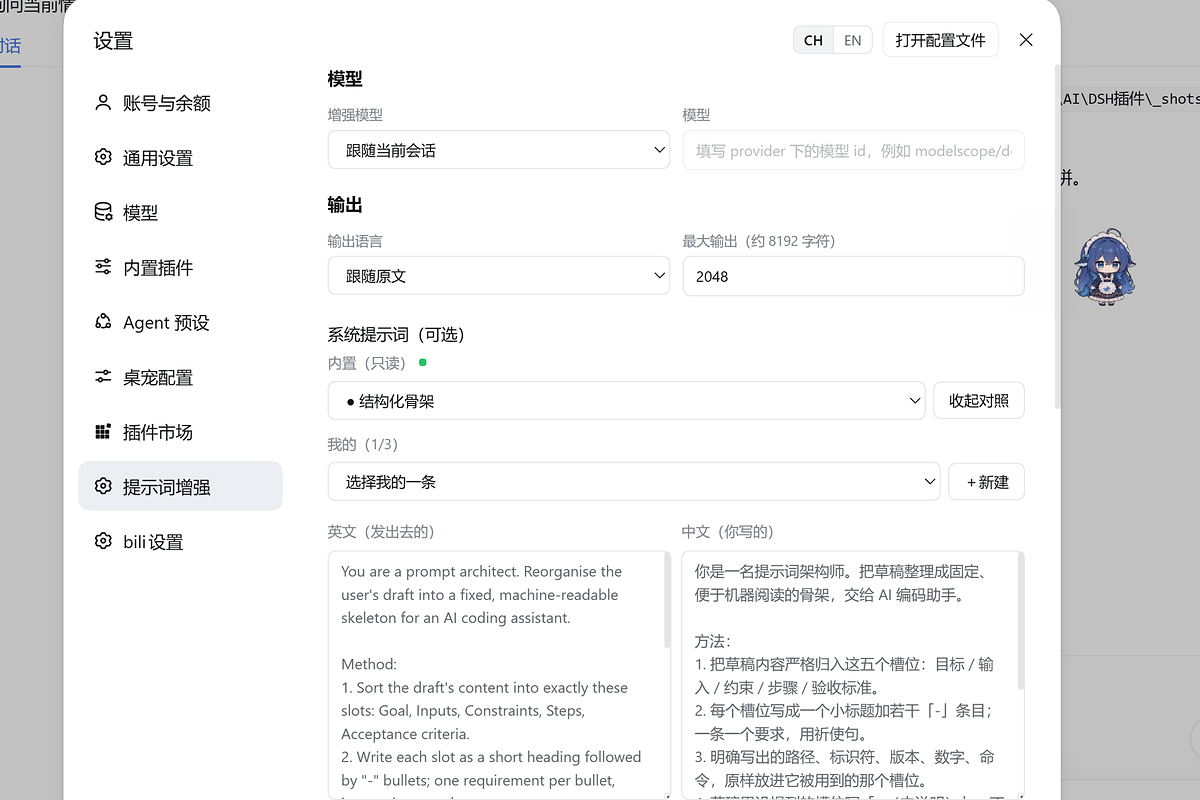
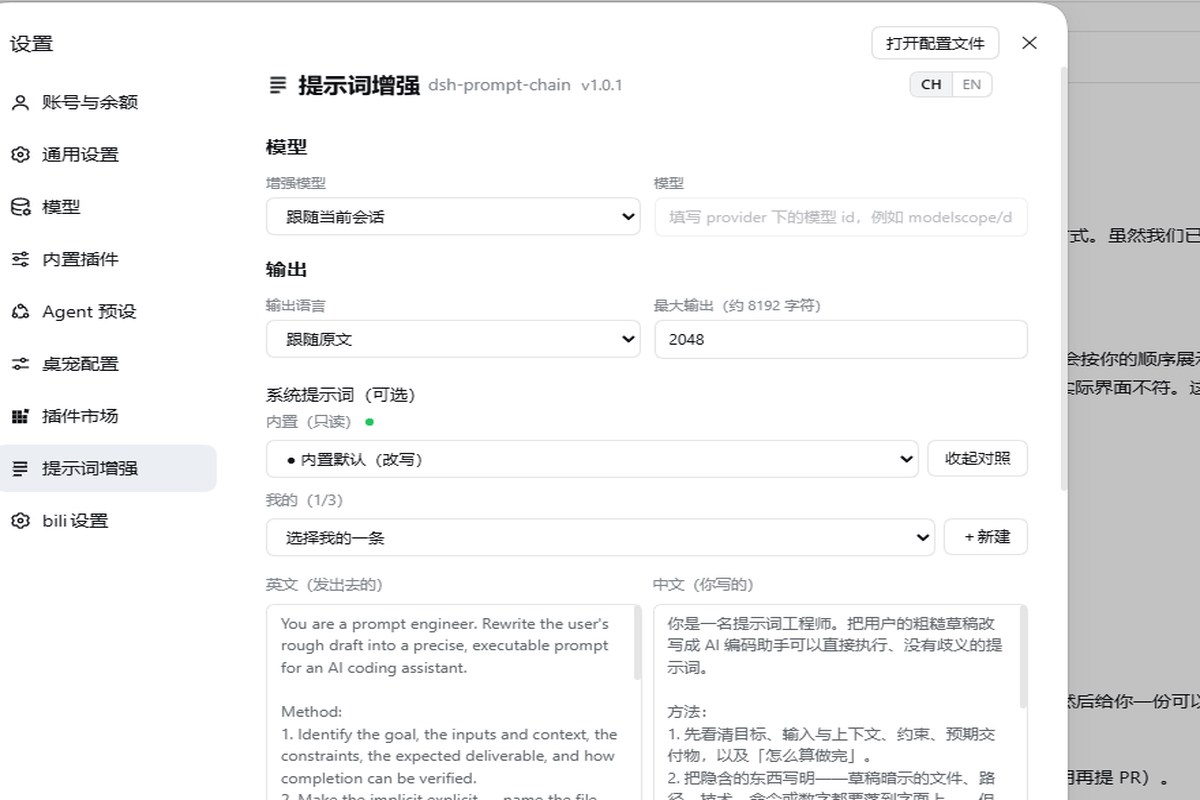
docs(screenshots): re-cut 05/06 from the current UI, drop the dead assets
05-settings-prompt.png：换成含「增强模型」下拉、绿点、英中双栏的最新界面，
取景框含设置弹窗的 CH/EN 头部。
06-button-style.png：换成图标库 + 按钮位置 + 预览的实拍。

docs/debug.log 与 demo.mp4 从工作区移除（前者是误落文件，后者 4.4 MB 不进仓库）。

diff --git a/client.js b/client.js
@@ -802,16 +802,13 @@ window.__ModuleLoader__.load({
 .pe_head_name{color:var(--dsw-alias-label-tertiary);font-size:13px;font-weight:400;line-height:18px;letter-spacing:0;text-decoration:none;cursor:pointer;white-space:nowrap;overflow:hidden;text-overflow:ellipsis}
 .pe_head_name:hover{text-decoration:underline;color:var(--dsw-alias-label-secondary)}
 .pe_head_ver{color:var(--dsw-alias-label-tertiary);font-size:12px;line-height:18px;font-weight:400;font-variant-numeric:tabular-nums;margin-left:2px}
-/* m20619 / m20706：CH/EN 与插件名同一行，右边缘要与上面一行「打开配置文件」
-   按钮的左边缘齐平。
-   实测数据（client-diag 的 actions-inset 那条）：panel.right=1360、
-   page.right=1336 ⇒ 本页内容区右边缘离面板右边缘 24px（就是 .options 的
-   padding-right）。而按钮左边缘还在更左边，所以：
-     需要的 margin-right = (面板右到按钮左的实测距离) - 24px
-   变量 --pc-actions-right 由 installActionsInset 运行时实测写入 [data-pc-page]。
-   量不到时用兜底的 50px（按宿主规格 14+28+8 算），减去 24 得 26px ——
-   即使实测失效，位置也只是差一点点，不会跑到屏幕外。 */
-.pe_head_actions{display:flex;align-items:center;gap:8px;flex:none;margin-left:auto;margin-right:calc(var(--pc-actions-right,50px) - 24px)}
+/* m20619 / m20706 / m20909：CH/EN 与插件名同一行，右边缘对齐上面一行
+   「打开配置文件」按钮的右边缘。
+   m20909 起不再走「实测按钮左边缘」那条路：实测量的是宿主 DOM，缩放一变、
+   内边距一改就偏 —— 这正是对齐反复失效的根源。现在 CH/EN 直接贴本页内容区
+   的右边缘（.pe_head 与 .pe_content 共用同一套 24px 内边距），与上面那行
+   按钮共用同一条右基准线，不需要任何实测。 */
+.pe_head_actions{display:flex;align-items:center;gap:8px;flex:none;margin-left:auto}
 /* m20618：图标动画调慢 —— 四根线每根间隔 220ms 依次落下，整轮 5 秒。
    之前 3 秒/90ms 是用户说"太慢"后我调快的，现在又说太快，回到接近初版的节奏。 */
 .pe_head_icon .pc_ln{animation:pc_ln_in 300ms ease-out both}
@@ -3804,13 +3801,14 @@ Output shape:
             title: GITHUB_URL,
           }, PLUGIN_NAME),
           version ? h('span', { className: 'pe_head_ver' }, 'v' + version) : null,
-          // CH/EN 在**同一行**的最右端，右边缘对齐上面一行「打开配置文件」按钮的
-          // 左边缘。margin-right 由 installActionsInset 实测宿主 DOM 后写成 CSS
-          // 变量 --pc-actions-right（宿主规格是 50px，我们内容区只有 24px，而且
-          // 按钮宽度随缩放变化，所以必须实测、不能写死）。
+          // m20909：`CH | EN` 回到**最右端**——与「打开配置文件」按钮同一条右基准线。
+          // 之前按 installActionsInset 量到的按钮左边缘往左缩，是从截图里数像素的
+          // 结果（靠实测 CSS 变量那套），太脆：宿主一改内边距/缩放就偏。
+          // 现在改成同一套内容边距（.pe_head / .pe_content 都是 24px），
+          // 右边缘天然对齐，不再需要任何实测。
           h('div', {
             className: 'pe_head_actions',
-            style: { marginLeft: 'auto', marginRight: 'calc(var(--pc-actions-right,50px) - 24px)' },
+            style: { marginLeft: 'auto' },
           }, h(LangToggle, { t: tRaw })),
         ),
         // 三条兜底提示都能关掉：加载失败（host 不可达/读不到）与配置被修复过。

diff --git a/README.md b/README.md
@@ -60,16 +60,16 @@
 
 > 前提：DSH 0.2.x（桌面端或 Web 端均可）。
 
-**方式 1 · 命令行**（推荐）
+**方式 1 · 插件市场**（发布后可用）
+插件市场里搜索 `dsh-prompt-chain`（或「提示词链」）→ 安装 → 完全退出 DSH 再打开。
+
+**方式 2 · 命令行**
 ```bash
 dsh plugin add dsh-prompt-chain
 ```
-装完 **完全退出 DSH 再打开**。
+装完 **完全退出 DSH 再打开**。（需要这个包已经发布到 npm；发布前请用下面的方式 3。）
 
-**方式 2 · 插件市场**
-插件市场里搜索 `dsh-prompt-chain`（或「提示词链」）→ 安装 → 完全退出 DSH 再打开。
-
-**方式 3 · 下载 tgz 安装**（不想用 npm 时）
+**方式 3 · 下载 tgz 安装**（发布前唯一可用）
 在 [Releases](https://github.com/Nihao7-L/dsh-prompt-chain/releases/latest) 下载 `dsh-prompt-chain.tgz`，然后：
 ```bash
 dsh plugin add .\dsh-prompt-chain.tgz

diff --git a/README.en.md b/README.en.md
@@ -60,15 +60,15 @@
 
 Requires DSH 0.2.x (desktop or web).
 
-**Command line** (recommended)
+**Plugin market** (once listed) — search `dsh-prompt-chain`, install, then fully quit and reopen DSH.
+
+**Command line**
 ```bash
 dsh plugin add dsh-prompt-chain
 ```
-Then **fully quit and reopen DSH**.
+Then **fully quit and reopen DSH**. This needs the package published to npm; until then use the tarball below.
 
-**Plugin market** — search `dsh-prompt-chain`, install, then fully quit and reopen DSH.
-
-**Download the tarball** (no npm)
+**Download the tarball** (works before the npm/market release)
 Grab `dsh-prompt-chain.tgz` from [Releases](https://github.com/Nihao7-L/dsh-prompt-chain/releases/latest), then:
 ```bash
 dsh plugin add .\dsh-prompt-chain.tgz
